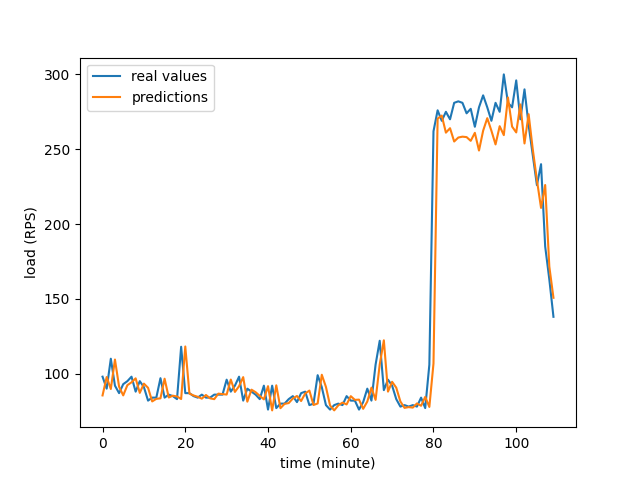
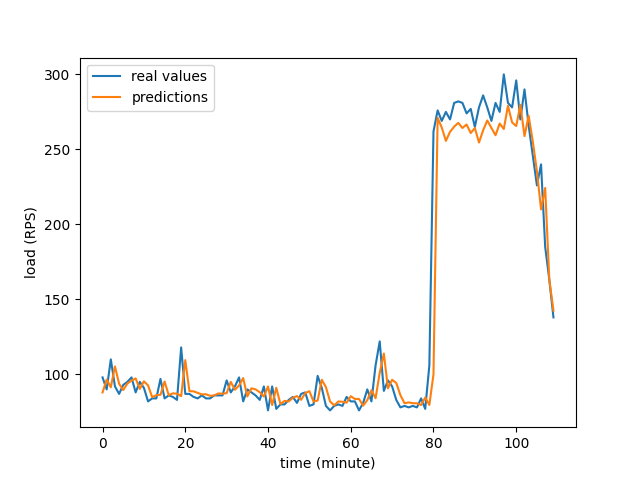
added lstm logic to the adapter and choosing configs

diff --git a/optimizer/adapter.py b/optimizer/adapter.py
@@ -1,6 +1,7 @@
 from typing import Dict, Literal, Tuple, Union
 import time
 import tqdm
+import numpy as np
 from kubernetes import config
 from kubernetes import client
 from typing import List
@@ -8,6 +9,9 @@ import os
 import sys
 import pandas as pd
 import concurrent.futures
+import tensorflow as tf
+from tensorflow.keras.models import load_model
+
 
 # get an absolute path to the directory that contains parent files
 project_dir = os.path.dirname(__file__)
@@ -41,7 +45,9 @@ from optimizer import (
     Pipeline
 )
 from experiments.utils.constants import (
-    NAMESPACE
+    NAMESPACE,
+    LSTM_PATH,
+    LSTM_INPUT_SIZE
 )
 from experiments.utils import logger
 from optimizer.optimizer import Optimizer
@@ -61,6 +67,8 @@ class Adapter:
             beta: float,
             gamma: float,
             num_state_limit: int,
+            monitoring_duration: int,
+            predictor_type: str
             ) -> None:
         """
         Args:
@@ -75,6 +83,8 @@ class Adapter:
             beta (float): resource weight
             gamma (float): batching weight
             num_state_limit (int): cap on the number of optimal states
+            monitoring_duration (int): the monitoring
+                deamon observing duration
         """
         self.pipeline_name = pipeline_name
         self.pipeline = pipeline
@@ -93,9 +103,11 @@ class Adapter:
         self.beta = beta
         self.gamma = gamma
         self.num_state_limit = num_state_limit
+        self.monitoring_duration = monitoring_duration
+        self.predictor_type = predictor_type
         self.monitoring = Monitoring(
             pipeline_name=self.pipeline_name)
-        self.predictor = Predictor()
+        self.predictor = Predictor(predictor_type=self.predictor_type)
 
     def start_adaptation(self):
 
@@ -115,6 +127,8 @@ class Adapter:
         timestep = 0
         pipeline_up = False
         pipeline_up = check_node_up(node_name='router')
+        # TODO add the check of whether enough time has
+        # passed to start adaptation or not
         if pipeline_up:
             initial_config = self.extract_config()
             self.monitoring.adaptation_step_report(
@@ -138,7 +152,8 @@ class Adapter:
                 break
             time_interval += self.adaptation_interval
             timestep += 1
-            rps_series = self.monitoring.rps_monitor()
+            rps_series = self.monitoring.rps_monitor(
+                monitoring_duration=self.monitoring_duration)
             predicted_load = round(self.predictor.predict(rps_series))
             logger.info(f"\nPredicted Load: {predicted_load}\n")
             optimal = self.optimizer.optimize(
@@ -173,13 +188,27 @@ class Adapter:
             new_configs.append(config)
         return new_configs
 
-    def choose_config(self, new_configs):
+    def choose_config(
+            self, new_configs: List[Dict[str, Dict[str, Union[str, int]]]]):
         # This should be from comparing with the
         # current config
         # easiest for now is to choose config with
         # with the least change from former config
         current_config = self.extract_config()
-        chosen_config = new_configs[-1]
+        new_config_socres = []
+        for new_config in new_configs:
+            new_config_score = 0
+            for node_name, new_node_config in new_config.items():
+                for config_knob, config_value in new_node_config.items():
+                    if config_knob == 'variant'and\
+                        config_value != current_config[node_name][config_knob]:
+                        new_config_score -= 1
+                    if config_knob == 'batch' and\
+                        str(config_value) != current_config[node_name][config_knob]:
+                        new_config_score -= 1
+            new_config_socres.append(new_config_score)
+        chosen_config_index = new_config_socres.index(max(new_config_socres))
+        chosen_config = new_configs[chosen_config_index]
         return chosen_config
 
     def extract_config(self):
@@ -274,13 +303,15 @@ class Monitoring:
     def __init__(self, pipeline_name) -> None:
         self.pipeline_name = pipeline_name
         self.adaptation_report = {}
-    # Get the rps of the router
-    def rps_monitor(self) -> List[int]:
-        duration = 1
+    def rps_monitor(self, monitoring_duration: int = 1) -> List[int]:
+        """
+        Get the rps of the router
+        duration in minutes
+        """
         rate = 15
         rps_series, _ = prom_client.get_request_per_second(
             pod_name='router', namespace="default",
-            duration=duration, container='router', rate=rate)
+            duration=monitoring_duration, container='router', rate=rate)
         return rps_series
 
     def adaptation_step_report(
@@ -297,10 +328,25 @@ class Monitoring:
 
 
 class Predictor:
-    def __init__(self) -> None:
-        # TODO add the lstm
-        self.model = lambda l: l[-1]
+    def __init__(self, predictor_type) -> int:
+        self.predictor_type = predictor_type
+        if predictor_type == 'lstm':
+            self.model = load_model(LSTM_PATH)
+        elif predictor_type == 'reactive':
+            self.model = lambda l: l[-1]
+        elif predictor_type == 'max':
+            self.model = lambda l: max(l)
+        elif predictor_type == 'avg':
+            self.model = lambda l: sum(l)/len(l)
     
     def predict(self, series: List[int]):
-        return self.model(series) # TEMP
+        if self.predictor_type == 'lstm':
+            model_intput = tf.convert_to_tensor(
+                np.array(series).reshape(
+                (-1, LSTM_INPUT_SIZE, 1)), dtype=tf.float32)
+            model_output = max(self.lstm.predict(model_intput))
+        else:
+            model_output = self.model(series)
+
+        return model_output
 

diff --git a/lstm-module/lstm_train.py b/lstm-module/lstm_train.py
@@ -13,7 +13,9 @@ sys.path.append(os.path.normpath(os.path.join(project_dir, "..")))
 
 from barazmoon.twitter import twitter_workload_generator
 
-from experiments.utils.constants import PROJECT_PATH
+from experiments.utils.constants import (
+    LSTM_PATH,
+    LSTM_INPUT_SIZE)
 
 
 def create_model():
@@ -21,7 +23,7 @@ def create_model():
     LSTM model
     """
     model = Sequential()
-    model.add(Input(shape=(10, 1)))
+    model.add(Input(shape=(LSTM_INPUT_SIZE, 1)))
     model.add(LSTM(25, activation="relu", kernel_regularizer=regularizers.L1(0.00001)))
     model.add(Dense(1))
     return model
@@ -66,9 +68,9 @@ def get_data():
     test_x, test_y = get_x_y(workload_test)
 
     return (
-        tf.convert_to_tensor(np.array(train_x).reshape((-1, 10, 1)), dtype=tf.int32),
+        tf.convert_to_tensor(np.array(train_x).reshape((-1, LSTM_INPUT_SIZE, 1)), dtype=tf.int32),
         tf.convert_to_tensor(np.array(train_y), dtype=tf.int32),
-        tf.convert_to_tensor(np.array(test_x).reshape((-1, 10, 1)), dtype=tf.int32),
+        tf.convert_to_tensor(np.array(test_x).reshape((-1, LSTM_INPUT_SIZE, 1)), dtype=tf.int32),
         tf.convert_to_tensor(np.array(test_y), dtype=tf.int32),
     )
 
@@ -87,9 +89,8 @@ if __name__ == "__main__":
         train_x, train_y, epochs=30, batch_size=64, validation_data=(test_x, test_y)
     )
     predictions = model.predict(test_x)
-    model_path = os.path.join(PROJECT_PATH, "lstm-module", "lstm_saved_model")
     plt.plot(list(range(len(test_y))), list(test_y), label="real values")
     plt.plot(list(range(len(test_y))), list(predictions), label="predictions")
     plt.legend()
     plt.show()
-    model.save(model_path)
+    model.save(LSTM_PATH)

diff --git a/lstm-module/lstm_test.py b/lstm-module/lstm_test.py
@@ -3,9 +3,6 @@ import tensorflow as tf
 import matplotlib.pyplot as plt
 import os
 import sys
-from tensorflow.keras import Sequential
-from tensorflow.keras.layers import Input, LSTM, Dense
-from tensorflow.keras import regularizers
 from tensorflow.keras.models import load_model
 
 # get an absolute path to the directory that contains parent files
@@ -15,13 +12,15 @@ sys.path.append(os.path.normpath(os.path.join(
 
 from barazmoon.twitter import twitter_workload_generator
 
-from experiments.utils.constants import PROJECT_PATH
+from experiments.utils.constants import (
+    PROJECT_PATH,
+    LSTM_PATH,
+    LSTM_INPUT_SIZE)
 
 
-model_path = os.path.join(PROJECT_PATH, "lstm-module", "lstm_saved_model")
 fig_path = os.path.join(PROJECT_PATH, 'lstm-module', 'lstm_prediction.png')
 
-model = load_model(model_path)
+model = load_model(LSTM_PATH)
 workload = twitter_workload_generator('1-26')
 workload = list(filter(lambda x: x != 0, workload)) # for removing missing hours
 hour = 60 * 60
@@ -50,7 +49,7 @@ def get_x_y(data):
 test_x, test_y = get_x_y(test_data)
 
 test_x = tf.convert_to_tensor(
-    np.array(test_x).reshape((-1, 10, 1)), dtype=tf.float32)
+    np.array(test_x).reshape((-1, LSTM_INPUT_SIZE, 1)), dtype=tf.float32)
 prediction = model.predict(test_x)
 plt.plot(list(range(len(test_y))), list(test_y), label="real values")
 plt.plot(list(range(len(test_y))), list(prediction), label="predictions")

diff --git a/experiments/runner/pipeline_runner_seperate_adaptation.py b/experiments/runner/pipeline_runner_seperate_adaptation.py
@@ -23,9 +23,7 @@ from experiments.utils.constants import (
     ACCURACIES_PATH
 )
 
-from optimizer import (
-    Adapter
-    )
+from optimizer import Adapter
 from experiments.utils.simulation_operations import (
     generate_simulated_pipeline
 )
@@ -134,6 +132,10 @@ def main(config_name: str, type_of: str):
         only_measured_profiles=only_measured_profiles,
         profiling_load=profiling_load)
 
+    # ----------- 3. loading predictor configs -------------
+    monitoring_duration = config['monitoring_duration']
+    predictor_type = config['predictor_type']
+
     # should be inside of experiments
     adapter = Adapter(
         pipeline_name=pipeline_name,
@@ -147,7 +149,9 @@ def main(config_name: str, type_of: str):
         alpha=alpha,
         beta=beta,
         gamma=gamma,
-        num_state_limit=num_state_limit
+        num_state_limit=num_state_limit,
+        monitoring_duration=monitoring_duration,
+        predictor_type=predictor_type
     )
 
 

diff --git a/experiments/utils/constants.py b/experiments/utils/constants.py
@@ -52,6 +52,12 @@ FINAL_CONFIGS_PATH = os.path.join(
     CONFIGS_PATH, "final"
 )
 
+# lstm load predictor model path
+LSTM_PATH = os.path.join(
+    DATA_PATH, "lstm"
+)
+LSTM_INPUT_SIZE = 10
+
 # triton folders
 TRITON_PROFILING_PATH = os.path.join(
     PROFILING_CONFIGS_PATH, "triton")
@@ -107,6 +113,8 @@ def _create_dirs():
     #     os.makedirs(PIPELINES_MODELS)
     if not os.path.exists(PIPLINES_PATH):
         os.makedirs(PIPLINES_PATH)
+    if not os.path.exists(LSTM_PATH):
+        os.makedirs(LSTM_PATH)
     if not os.path.exists(CONFIGS_PATH):
         os.makedirs(CONFIGS_PATH)
     if not os.path.exists(PROFILING_CONFIGS_PATH):
